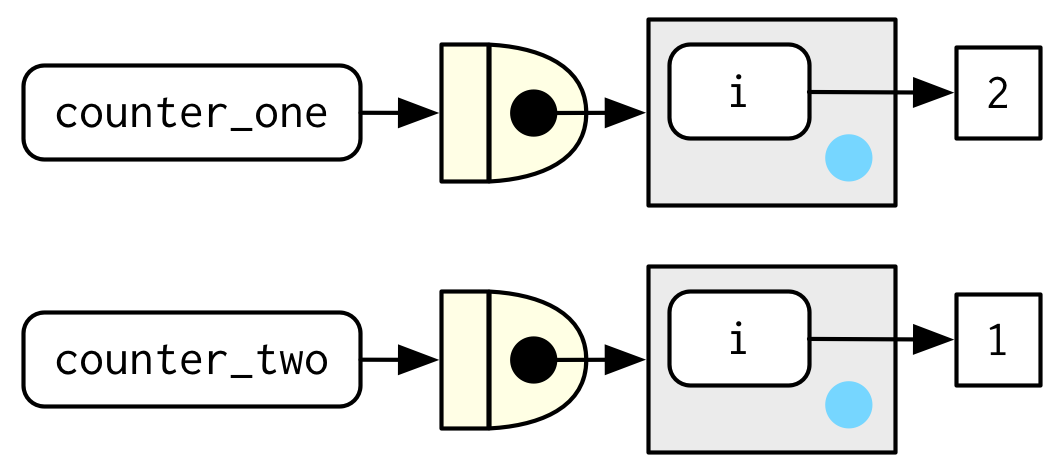
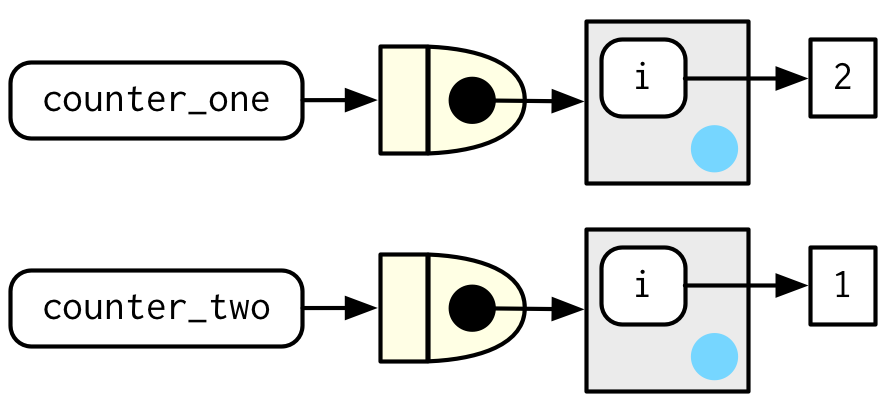
Figure out (once and for all) how to match font sizes in diagrams and text

Changed region(s): [[0.0, 0.5521, 1.0, 0.9879], [0.3356, 0.0291, 1.0, 0.4649], [0.0, 0.1162, 0.3356, 0.3487]]

diff --git a/latex/preamble.tex b/latex/preamble.tex
@@ -10,6 +10,11 @@
 \renewcommand{\bottomfraction}{0.8}
 \renewcommand{\floatpagefraction}{0.75}
 
+\usepackage{fontspec}
+\usepackage{xltxtra,xunicode}
+\defaultfontfeatures{Mapping=tex-text,Scale=MatchLowercase}
+\setmonofont[Mapping=tex-ansi]{Inconsolata}
+
 \renewenvironment{quote}{\begin{VF}}{\end{VF}}
 \let\oldhref\href
 \renewcommand{\href}[2]{#2\footnote{\url{#1}}}

diff --git a/README.md b/README.md
@@ -4,3 +4,23 @@
 
 This is code and text behind the [Advanced R programming](http://adv-r.hadley.nz)
 book.  The site is built with [bookdown](https://bookdown.org/yihui/bookdown/).
+
+## Diagrams
+
+Omnigraffle:
+  
+* Make sure that 100% is "one postscript point": this ensures canvas
+  size matches physical size.
+  
+* Use inconsolata 10pt, and export at 300 dpi scaled to 100%.
+
+Book:
+
+* Inconsolata scaled (by fontspec) to match main font is 9.42pt.
+
+* Preview at 100% matches physical size of book. Maxiumum diagram width is 11cm.
+
+RMarkdown
+
+* Remove dpi specification from `include_graphics()`, instead relying
+  on `common.R`. Chunk should have `output.width = NULL`.
